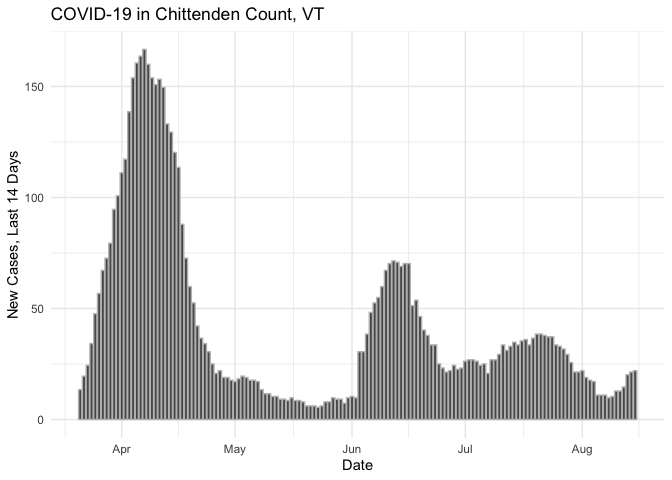
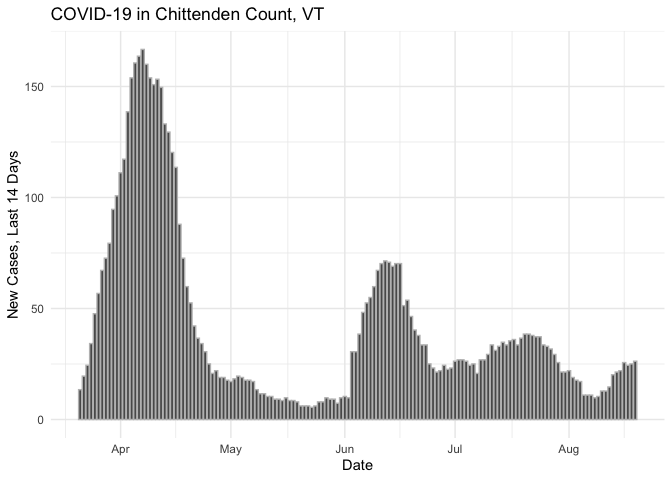
Update plots for 2020-08-20

diff --git a/chittenden-covid-plots.md b/chittenden-covid-plots.md
@@ -9,15 +9,16 @@
     }
 
     covid <- getLatestCovidData()
+    write_csv(covid, "data/chittenden_covid.csv")
     tail(covid)
 
     ##           date new_cases new_deaths
-    ## 156 2020-08-10         5          0
-    ## 157 2020-08-11         0          0
-    ## 158 2020-08-12         3          0
-    ## 159 2020-08-13        10          0
     ## 160 2020-08-14         4          0
     ## 161 2020-08-15         4          0
+    ## 162 2020-08-16         7          0
+    ## 163 2020-08-17         0          0
+    ## 164 2020-08-18         1          0
+    ## 165 2020-08-19         2          0
 
     ggplot(covid) +
       geom_bar(aes(x=date, y=new_cases), stat='identity', color='gray') +
